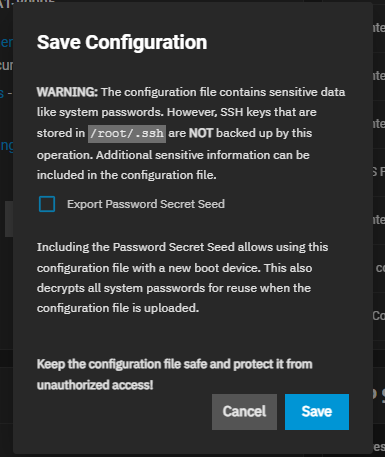
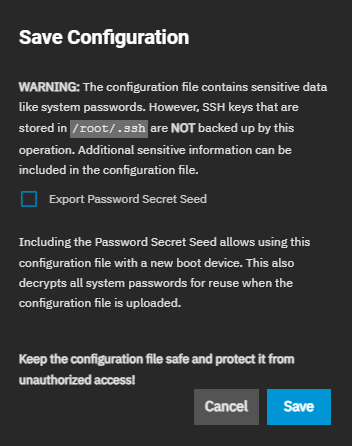
GeneralSettingsScreens

diff --git a/content/SCALEUIReference/SystemSettings/GeneralSettingsScreens.md b/content/SCALEUIReference/SystemSettings/GeneralSettingsScreens.md
@@ -12,21 +12,21 @@ tags:
 
 {{< toc >}}
 
-The TrueNAS SCALE **System Settings > General** screen includes widgets for **[Support](#support-widget)**, **[GUI](#gui)**, **[Localization](#localization)**, and **[NTP](#ntp-servers)** functions.   
+The TrueNAS SCALE **System Settings > General** screen includes widgets for **[Support](#support-widget)**, **[GUI](#gui)**, **[Localization](#localization)**, and **[NTP](#ntp-servers)** functions.
 
-![SystemGeneralScreen](/images/SCALE/22.12/SystemGeneralScreen.png "System General Screen") 
+![SystemGeneralScreen](/images/SCALE/23.10/SystemGeneralScreen.png "System General Screen")
 
 **[Manage Configuration](#manage-configuration-screens)** provides three options to backup, restore, or reset system configuration settings.
 
 ## Manage Configuration Screens
 
-TrueNAS SCALE allows users to manage the system configuration via uploading/downloading configurations, or resetting the system to the default configuration. 
+TrueNAS SCALE allows users to manage the system configuration via uploading/downloading configurations, or resetting the system to the default configuration.
 
 ### Download File Window
 
 The **Download File** option opens the **Save Configuration** window, which allows users to download the current system configuration to the local machine.
 
-![SystemGeneralSaveConfiguration](/images/SCALE/22.02/SystemGeneralSaveConfiguration.png "System General Download Save Configuration") 
+![SystemGeneralSaveConfiguration](/images/SCALE/23.10/SaveConfigurationWindow.png "System General Download Save Configuration")
 
 The **Export Password Secret Seed** option includes encrypted passwords in the downloaded configuration file. This option allows you to restore the configuration file to a different operating system device where the decryption seed is not already present. Users must physically secure configuration backups containing the seed to prevent unauthorized access or password decryption.
 
@@ -34,9 +34,9 @@ The **Export Password Secret Seed** option includes encrypted passwords in the d
 
 The **Upload File** option opens the **Upload Config** window, which allows users to choose a previously saved TrueNAS SCALE configuration to replace the current system configuration.
 
-![SystemGeneralUploadConfig](/images/SCALE/22.12/SystemGeneralUploadConfig.png "System General Upload Config") 
+![SystemGeneralUploadConfig](/images/SCALE/23.10/SystemGeneralUploadConfig.png "System General Upload Config")
 
-**Choose File** opens a file browser window where you can locate the downloaded and saved configuration. After selecting the file, it displays in the **Upload Config** window. 
+**Choose File** opens a file browser window where you can locate the downloaded and saved configuration. After selecting the file, it displays in the **Upload Config** window.
 **Upload** uploads the selected configuration file.
 
 {{< hint type=warning >}}
@@ -47,20 +47,20 @@ All passwords reset if the uploaded configuration file saved without **Export Pa
 
 The **Reset to Defaults** option opens the **Reset Configuration** window, which resets the system configuration to factory settings and restarts the system. Users must set a new login password.
 
-![SystemGeneralResetConfiguration](/images/SCALE/22.12/SystemGeneralResetConfiguration.png "SCALE General Reset Configuration") 
+![SystemGeneralResetConfiguration](/images/SCALE/23.10/SystemGeneralResetConfiguration.png "SCALE General Reset Configuration")
 
 {{< hint type=warning >}}
 **Save the system current configuration with the _Download File_ option before resetting the configuration to default settings.**
- 
+
 If you do not save the system configuration before resetting it, you may lose data that you did not back up, and you will not be able to revert to the previous configuration.
 {{< /hint >}}
 
 ## Support Widget
-The **Support** widget displays general hardware and software specs and contains links to the [Documentation Hub](https://www.truenas.com/docs/), [TrueNAS Forums](https://www.truenas.com/community/), and offers [TrueNAS Licensing](https://www.ixsystems.com/support/) information. 
+The **Support** widget displays general hardware and software specs and contains links to the [Documentation Hub](https://www.truenas.com/docs/), [TrueNAS Forums](https://www.truenas.com/community/), and offers [TrueNAS Licensing](https://www.ixsystems.com/support/) information.
 
 ![SystemGeneralSupportWidget](/images/SCALE/22.12/SystemGeneralSupportWidget.png "SCALE General Settings Support Widget")
 
-**Add License** opens the **[License](#license-screens)** screen. 
+**Add License** opens the **[License](#license-screens)** screen.
 
 **File Ticket** opens the **[File Ticket](#file-ticket-screen)** screen.
 
@@ -76,7 +76,7 @@ When the **End User License Agreement (EULA)** opens, read it thoroughly and com
 
 ![GeneralSettingsSCALESupportLicenseComplete](/images/SCALE/GeneralSettingsSCALESupportLicenseComplete.png "SCALE General Settings Support License Entry Complete")
 
-Select the **This is a production system** option and click the **Proceed** to notify iXsystems through an email the system sends declaring that the system is in production. 
+Select the **This is a production system** option and click the **Proceed** to notify iXsystems through an email the system sends declaring that the system is in production.
 {{< /expand >}}
 
 ### File Ticket Screen
@@ -88,16 +88,12 @@ The **File Ticket** screen settings allow you to log into Jira where you can sub
 {{< truetable >}}
 | Setting | Description |
 |---------|-------------|
-| **Name** | Enter the name of the contact person. |
-| **Email** | Enter the email of the contact person. Use the format `name@domain.com`. |
-| **CC** | Email addresses to receive copies of iXsystems Support messages about this issue. Use the format `name@domain.com`. Separate entries by pressing <kbd>Enter</kbd>. |
-| **Phone** | Enter the phone number of the contact person. |
+| **Login To Jira** | Click to log in to a Jira account. |
+| **Category** | Select the appropriate category. |
 | **Type** | Select Bug when reporting an issue or Suggestion when requesting new functionality. |
-| **Environment** | Select the appropriate environment. |
-| **Criticality** | Select the appropriate level of criticality. |
-| **Subject** | Enter a descriptive title for the new issue. |
-| **Description** | Enter a one to three paragraph summary of the issue. Describe the problem and provide any steps to replicate the issue. |
 | **Attach Debug** | Set to generate and attach to the new issue a report containing an overview of the system hardware, build string, and configuration. Attaching a debug can take several minutes. |
+| **Subject** | Enter a descriptive title for the new issue. |
+| **Body** | Enter a one to three paragraph summary of the issue. Describe the problem and provide any steps to replicate the issue. |
 | **Choose File** | Select one or more screenshots that illustrate the problem. |
 {{< /truetable >}}
 
@@ -124,20 +120,19 @@ The **GUI** widget allows users to configure the TrueNAS SCALE web interface add
 {{< expand "Click Here for More Information" "v" >}}
 Click **Settings** to open the **GUI Settings** screen.
 
-![SystemGeneralGuiSettings](/images/SCALE/22.12/SystemGeneralGuiSettings.png "System General GUI Settings") 
+![SystemGeneralGuiSettings](/images/SCALE/23.10/SystemGeneralGuiSettings.png "System General GUI Settings")
 
 {{< truetable >}}
 | Setting | Description |
 |---------|-------------|
 | **Theme** | Select a preferred color theme from the dropdown list of eight options. |
-| **GUI SSL Certificate** | Select a self-signed certificate from the dropdown list. The system uses a self-signed certificate to enable encrypted web interface connections. |
+| **GUI SSL Certificate** | Select a self-signed certificate from the dropdown list. The system uses a self-signed certificate to enable encrypted web interface connections. **Manage Certificates** opens the [Certificates]({{< relref "/scaleuireference/credentials/certificates/_index.md" >}}) screen. |
 | **Web Interface IPv4 Address** | Select a recent IP address from the dropdown list to limit usage when accessing the administrative GUI. The built-in HTTP server binds to the wildcard address of **0.0.0.0** (any address) and issues an alert if the specified address becomes unavailable. |
 | **Web Interface IPv6 Address** | Select a recent IPv6 address from the dropdown list to limit the usage when accessing the administrative GUI. The built-in HTTP server binds to the wildcard address of **0.0.0.0** (any address) and issues an alert if the specified address becomes unavailable. |
-| **Web Interface HTTP Port** | Enter a port number for an HTTP connection to the web interface. Allow configuring a non-standard port to access the GUI over HTTP. Changing this setting might require changing a [Firefox configuration setting](https://www.redbrick.dcu.ie/~d_fens/articles/Firefox:_This_Address_is_Restricted). |
+| **Web Interface HTTP Port** | Enter a port number for an HTTP connection to the web interface. Allow configuring a non-standard port to access the GUI over HTTP. Changing this setting might require changing a [Firefox configuration setting](https://support.mozilla.org/en-US/questions/1083282). |
 | **Web Interface HTTPS Port** | Enter a port number for an HTTPS connection to the web interface. This field allows configuring a non-standard port to access the GUI over HTTPS. |
 | **HTTPS Protocols** | Select the [Transport Layer Security (TLS)](https://en.wikipedia.org/wiki/Transport_Layer_Security) versions TrueNAS SCALE can use for connection security from the dropdown list. Cryptographic protocol for securing client/server connections. |
 | **Web Interface HTTP -> HTTPS Redirect** | Select to redirect HTTP connections to HTTPS. A GUI SSL Certificate is required for HTTPS. Activating this also sets the [HTTP Strict Transport Security (HSTS)](https://en.wikipedia.org/wiki/HTTP_Strict_Transport_Security) maximum age to 31536000 seconds (one year). This means that after a browser connects to the web interface for the first time, the browser continues to use HTTPS and renews this setting every year. |
-| **Crash Reporting** | Select to send failed HTTP request data, which can include client and server IP addresses, failed method call tracebacks, and middleware log file contents, to iXsystems. |
 | **Usage Collection** | Select to enable sending anonymous usage statistics to iXsystems. |
 | **Show Console Messages** | Select to display console messages in real-time at the bottom of the browser. |
 {{< /truetable >}}
@@ -148,7 +143,7 @@ The **Localization** widget lets users localize their system to a specific regio
 {{< expand "Click Here for More Information" "v" >}}
 Click **Settings** to open the **Localization Settings** screen.
 
-![SystemGeneralLocalizationSettings](/images/SCALE/22.02/SystemGeneralLocalizationSettings.png "Localization Settings")
+![SystemGeneralLocalizationSettings](/images/SCALE/23.10/SystemGeneralLocalizationSettings.png "Localization Settings")
 
 {{< truetable >}}
 | Setting | Description |
@@ -162,11 +157,11 @@ Click **Settings** to open the **Localization Settings** screen.
 {{< /expand >}}
 
 ## NTP Servers
-The **NTP Servers** widget allows users to configure Network Time Protocol (NTP) servers, which sync the local system time with an accurate external reference. 
+The **NTP Servers** widget allows users to configure Network Time Protocol (NTP) servers, which sync the local system time with an accurate external reference.
 {{< expand "Click Here for More Information" "v" >}}
 By default, new installations use several existing NTP servers. TrueNAS SCALE supports adding custom NTP servers. Click **Add** to open the **Add NTP Server** screen.
 
-![SystemGeneralAddNTPServer](/images/SCALE/22.02/SystemGeneralAddNTPServer.png "Add NTP Server")
+![SystemGeneralAddNTPServer](/images/SCALE/23.10/SystemGeneralAddNTPServer.png "Add NTP Server")
 
 {{< truetable >}}
 | Setting | Description |
